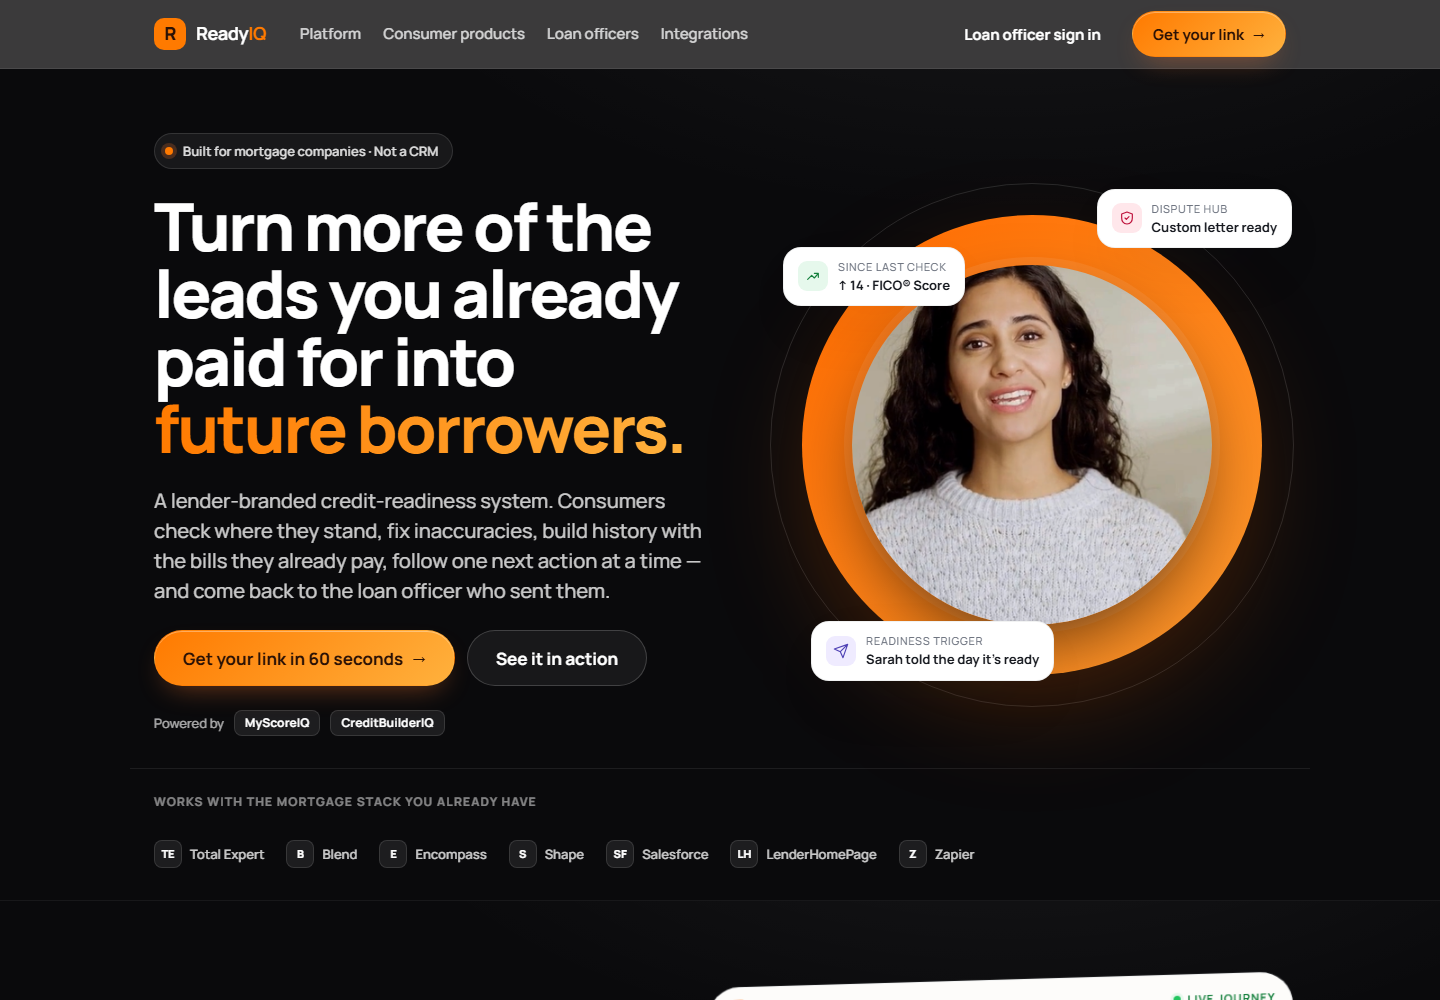
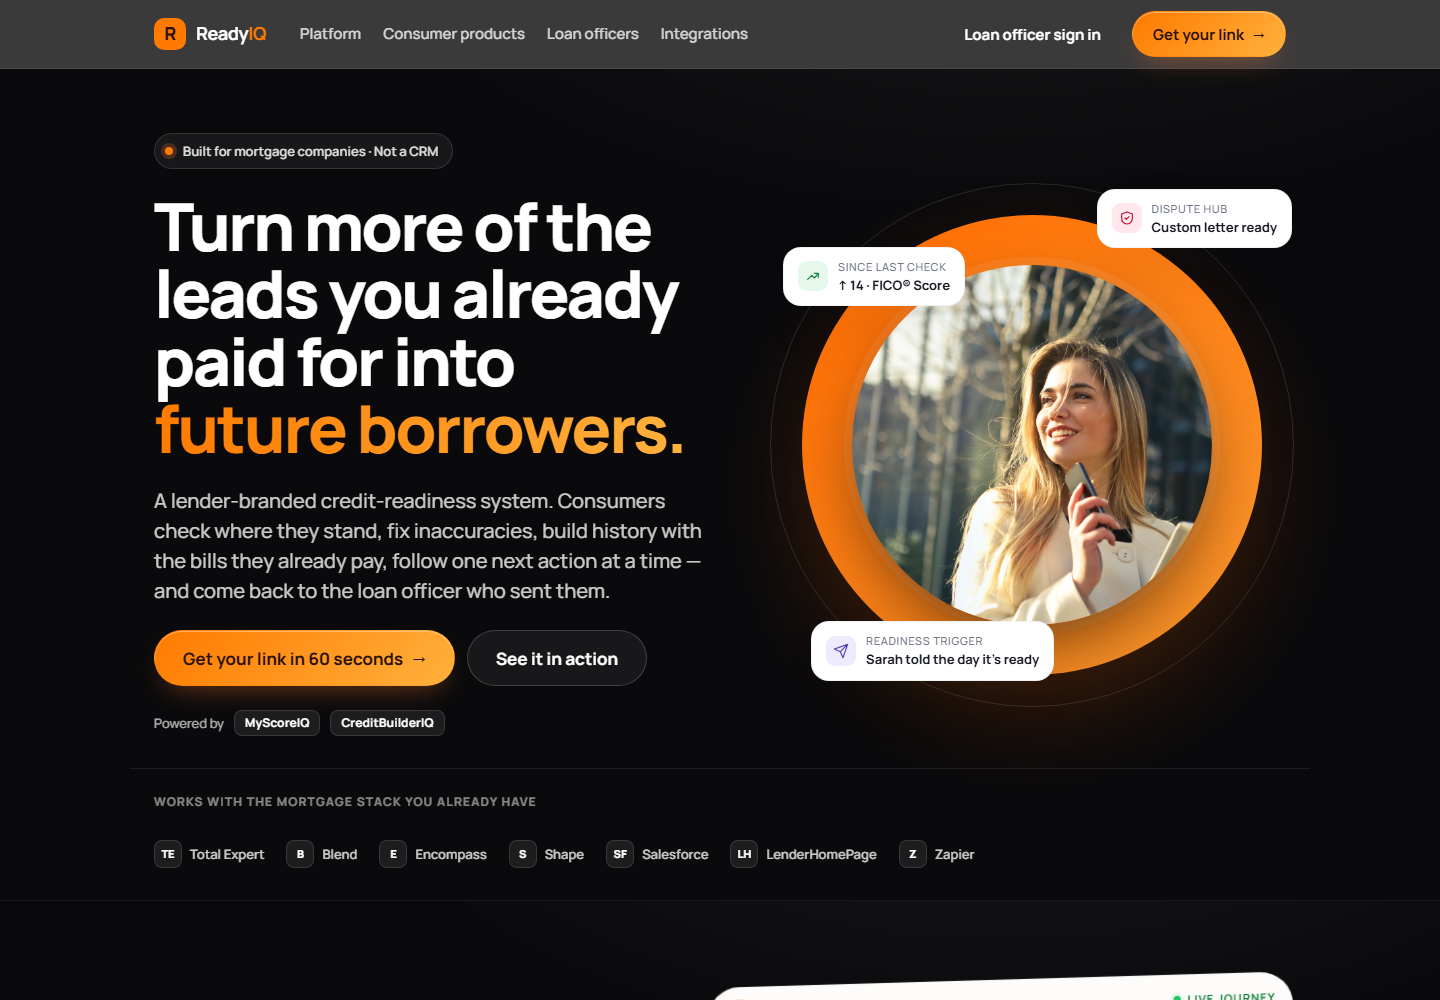
feat(hero): real portrait (Pexels 864994, Andrea Piacquadio) in the hero circle; credit in README

Changed region(s): [[0.5938, 0.248, 0.8438, 0.62]]

diff --git a/site/index.html b/site/index.html
@@ -25,7 +25,7 @@
   .hero-person { position: relative; height: 560px; }
   .hp-circle { position: absolute; right: 24px; bottom: 40px; width: 460px; height: 460px; border-radius: 50%; background: var(--brand-grad); box-shadow: 0 40px 120px -30px var(--brand-glow); }
   .hp-ring { position: absolute; right: -8px; bottom: 8px; width: 524px; height: 524px; border-radius: 50%; border: 1px solid rgba(255,255,255,.12); }
-  .hp-img { position: absolute; right: 74px; bottom: 90px; width: 360px; height: 360px; border-radius: 50%; object-fit: cover; object-position: center top; box-shadow: 0 30px 80px -20px rgba(0,0,0,.7), 0 0 0 8px rgba(255,255,255,.08); }
+  .hp-img { position: absolute; right: 74px; bottom: 90px; width: 360px; height: 360px; border-radius: 50%; object-fit: cover; object-position: 60% 32%; box-shadow: 0 30px 80px -20px rgba(0,0,0,.7), 0 0 0 8px rgba(255,255,255,.08); }
   .hp-a { left: 12px; top: 92px; } .hp-b { right: -6px; top: 34px; animation-delay: 1.2s; } .hp-c { left: 40px; bottom: 34px; animation-delay: 2.1s; }
   .showcase { position: relative; overflow: hidden; padding: var(--sp-20) 0 var(--sp-16); border-top: 1px solid rgba(255,255,255,.06); }
   .showcase-grid { display: grid; grid-template-columns: minmax(0, .9fr) minmax(0, 1.1fr); gap: var(--sp-16); align-items: center; }
@@ -139,7 +139,7 @@
     <div class="hero-person" aria-hidden="true">
       <i class="hp-ring"></i>
       <i class="hp-circle"></i>
-      <img class="hp-img" src="assets/img/hero-person.png" alt="">
+      <img class="hp-img" src="assets/img/hero-person.jpg" alt="">
       <div class="float-label hp-a"><i class="tone-mint"><svg viewBox="0 0 24 24" width="16" height="16" fill="none" stroke="currentColor" stroke-width="1.75" stroke-linecap="round" stroke-linejoin="round"><path d="M4 17l6-6 4 4 6-7M14 8h6v6"/></svg></i><div><small>Since last check</small><b>↑ 14 · FICO® Score</b></div></div>
       <div class="float-label hp-b"><i class="tone-coral"><svg viewBox="0 0 24 24" width="16" height="16" fill="none" stroke="currentColor" stroke-width="1.75" stroke-linecap="round" stroke-linejoin="round"><path d="M12 3l8 3v6c0 5-3.5 8.5-8 9-4.5-.5-8-4-8-9V6l8-3zM9 12l2 2 4-4"/></svg></i><div><small>Dispute Hub</small><b>Custom letter ready</b></div></div>
       <div class="float-label hp-c"><i class="tone-purple"><svg viewBox="0 0 24 24" width="16" height="16" fill="none" stroke="currentColor" stroke-width="1.75" stroke-linecap="round" stroke-linejoin="round"><path d="M22 2L11 13M22 2l-7 20-4-9-9-4 20-7z"/></svg></i><div><small>Readiness trigger</small><b>Sarah told the day it's ready</b></div></div>

diff --git a/README.md b/README.md
@@ -61,3 +61,7 @@ test/         node:test
 A "ReadyIQ demo ▾" pill on every page switches surfaces and fixture consumers.
 Logic lives in `site/assets/js/state.js` and is covered by `npm test`; a
 `FIXTURE_VERSION` constant resets stale `localStorage` when fixtures change shape.
+
+## Photo credit
+
+Hero portrait: Pexels photo 864994 by Andrea Piacquadio (Pexels license — free to use). `site/assets/img/hero-person.jpg`.
